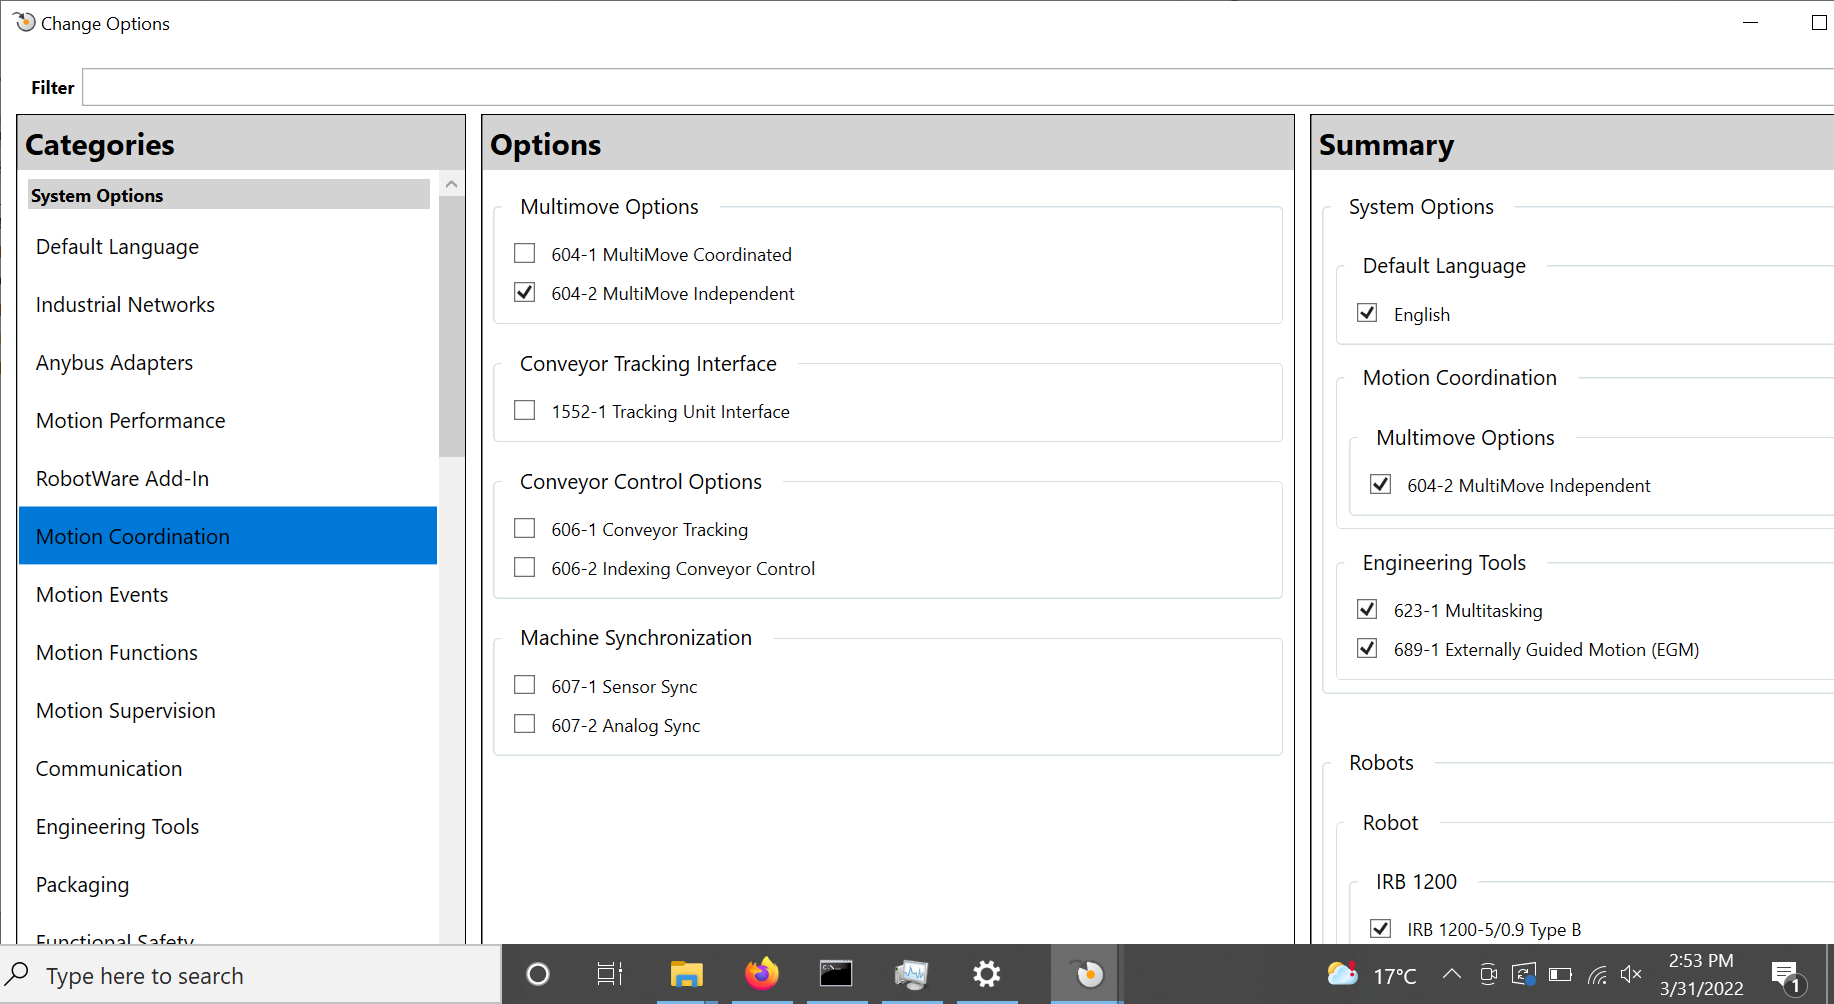
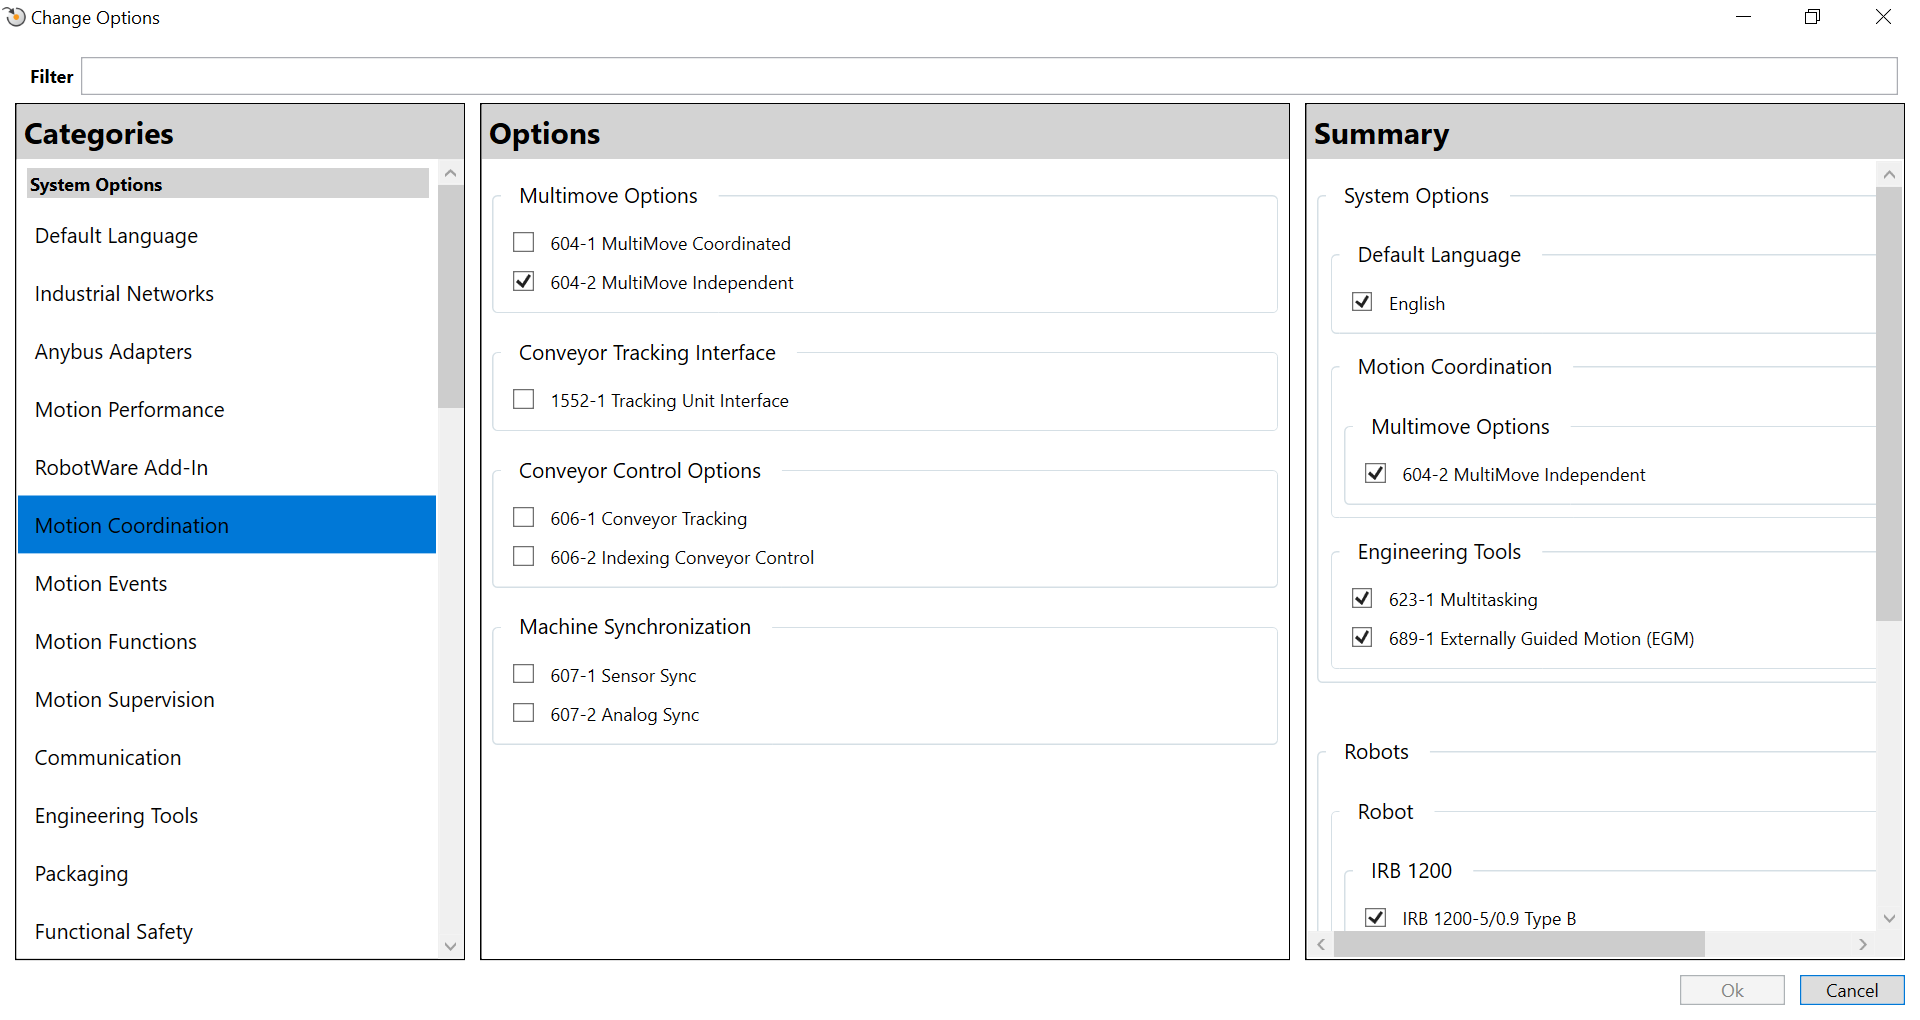
Added extra configuration information and cleanup, updated screenshots

Changed region(s): [[0.0, 0.0618, 1.0, 1.0], [0.0, 0.0, 0.0932, 0.0309], [0.9324, 0.0, 0.9945, 0.0309]]

diff --git a/docs/RobotStudioSetup.md b/docs/RobotStudioSetup.md
@@ -1,10 +1,10 @@
 # Setting Up a New Robot
 
-These steps cover how to set up a new robot in RobotStudio to work with the ABB driver. If using the Pack and Go, skip to the [controller confiugration step](#controller-configuration) for network configuration, and then to step 6 to start the controller.
+These steps cover how to set up a new robot in RobotStudio to work with the ABB driver, and reproduce the configurations in the included Pack and Go examples. If you don't want to configure your own RobotStudio simulation, you can use the Pack and Go example files as described in the [README](./README.md). As your network configuration will likely be different than that of the Pack and Go example, you will also need to follow the [controller configuration steps](#controller-configuration).
 
 ## Simulation Setup
 
-1. Open RobotStudio and create a new solution by selecting File --> New --> Solution with Station and Virtual Controller. Make sure you have `Customize options` selected.
+1. Open RobotStudio and create a new solution by selecting `File` --> `New` --> `Solution with Station and Virtual Controller`. Make sure you have `Customize options` selected.
 
 ![create solution](images/egm0.png)
 
@@ -13,42 +13,42 @@ These steps cover how to set up a new robot in RobotStudio to work with the ABB 
 
 For MultiMove support, e.g. for external axes, also select the following:
 - `623-1 Multitasking` also under `Engineering Tools`
-- `604-1 MultiMove Independent` 
+- `604-1 MultiMove Independent` under `Motion Coordination`
 
-Note that EGM Position Stream does not support MultiMove Coordinated - this means that coordinated, synchronized robot movement is not supported (i.e. for tasks that involved multiple robots that are working on the same moving work object).
+Note that EGM Position Stream does not support MultiMove Coordinated - this means that coordinated, synchronized robot movement is not supported (i.e. for tasks that involve multiple robots working on the same moving work object).
 
 ![customize](images/egm1.png)
 
+The following steps will cover how to set up the controller for EGM with a robot arm. To set up the controller configuration with a robot and external axis for MultiMove, see [Setting up a new MultiMove Robot](#setting-up-a-new-multimove-robot).
+
 ## Controller Configuration
 
-3. Configure the communication settings for the controller to connect with the ROS2 computer. Identify the IP of the ROS2 computer, and the port used for EGM communitcation. The port is set by the `robotstudio_port` hardware parameter in the robot ros2_control description file. To configure the controller, navigate to the `Controller Tab` --> `Configuration` --> `Communication`. On the right, under `Transmission Protocol` right click and `Add new`.
-
+3. Configure the communication settings for the controller to connect with the ROS2 computer. Identify the IP of the ROS2 computer, and the port used for EGM communication. The port is set by the `robotstudio_port` hardware parameter in the robot ros2_control description file. To configure the controller, navigate to the `Controller Tab` --> `Configuration` --> `Communication`. On the right, under `Transmission Protocol` right click and `Add new`.
 
 ![communication](images/egm2.png)
 
-
  - Set the name to be `ROB_1`
  - Set the type to `UDPUC`. If you don't see this option, EGM was not added to the controller.
- -  Set the Remote Address to be that of the ROS2 computer. In the Pack and Go file, this is set to `169.254.53.52`, but this will likely need to be changed.
+ - Set the Remote Address to be that of the ROS2 computer. In the Pack and Go file, this is set to `169.254.53.52`, but this will likely need to be changed.
  - Set the Remote port number to match what ROS2 control driver is expecting. In the sample solution, it is set to `6511`.
- - Leave the local port number set to `0`
+ - Leave the Local port number set to `0`
  - Press OK at the bottom of the window to confirm the changes
 
 ![add transmission porotocol](images/egm3.png)
 
 ## RAPID Configuration
 
-4. Add the code from `TRob1Main.mod` to the RAPID module. This can be done by selecting the module on the sidebar, and copy-pasting the code into the editor.
+4. Add the code from `TRob1Main.mod` to the RAPID module. This can be done by selecting the module on the sidebar, and copy-pasting the code into the editor, or by right-clicking the `T_ROB1` task, selecting `Load Module...`, and navigate to and selecting `TRob1Main.mod` in the file browser.
 
 ![add module](images/egm4.png)
 
 # Setting up a new MultiMove Robot
 
-These steps cover how to set up a new robot with an example external axis in RobotStudio to work with the ABB driver. If using the Pack and Go, skip to the [Controller Configuration step](#controller-configuration-multimove) for network configuration, and then to step 6 to start the controller.
+These steps cover how to set up a new robot with an example external axis in RobotStudio to work with the ABB driver. If using the Pack and Go, skip to steps 13 through 15 in [Controller Configuration](#controller-configuration-multimove) for network configuration.
 
 ## Simulation Setup (MultiMove)
 
-1. Create a new solution similarly to the first step in the [Setting up a new robot](#setting-up-a-new-robot), enabling `604-2 MultiMove Independent` under Motion Coordination as well. You can also add MultiMove to an existing solution under the Controller option in the Ribbon, and select `Change Options`. Note that this will require a reset and restart of the controller, which will wipe the configuration and RAPID programs.
+1. Create a new solution similarly to the first step in the [Setting up a new robot](#setting-up-a-new-robot), enabling `604-2 MultiMove Independent` under Motion Coordination as well. You can also add MultiMove to an existing solution under the Controller option in the Ribbon, and select `Change Options`. Note that this will require a reset and restart of the controller, which will wipe the existing configuration and RAPID programs.
 
 ![options](images/multimove0.PNG)
 
@@ -58,9 +58,9 @@ These steps cover how to set up a new robot with an example external axis in Rob
 
 3. Navigate to the `Home tab` in the top ribbon. Right-click the robot name in the left pane and select `Browse for Library...` A file browser should pop up.
 
-4. Navigate to and open the external axis - the external axis used in the example Pack and Go is the `MU_250__01` in the `Positioners` folder. You should see the new mechaism appear in the View window.
+4. Navigate to and open the external axis - the external axis used in the example Pack and Go is the `MU_250__01` in the `Positioners` folder. You should see the new mechanism appear in the View window.
 
-5. Adjust the position of the external axis as necessary by right-clicking the new mechanism, Position --> Set Position... For the `MU_250__01`, we apply an orientation change of 180 about X axis and -90 about Y axis to put the unit under the robot. Click Apply when finished - you should see the external axis reposition according to the values you set.
+5. Adjust the position of the external axis as necessary by right-clicking the new mechanism, `Position` --> `Set Position...` For the `MU_250__01`, we apply an orientation change of 180 about X axis and -90 about Y axis to put the unit under the robot. Click Apply when finished - you should see the external axis reposition according to the values you set.
 
 ![set position](images/multimove2.PNG)
 
@@ -78,23 +78,24 @@ These steps cover how to set up a new robot with an example external axis in Rob
 
     ![external axis wizard 3](images/multimove5.PNG)
 
-7. To attach the arm to the external axis, right click the arm name in the tree menu in the left pane, select Attach to --> MU_250__01. A pop up winodw will ask you to confirm if you want to update the position of the arm. Select Yes. A second pop up will ask if the robot should be coordinate with the track. Select Yes. A third prompt will ask you to restart the controller. Select Yes again.
+7. To attach the arm to the external axis, right click the arm name in the tree menu in the left pane, select `Attach to` --> `MU_250__01`. A pop up window will ask you to confirm if you want to update the position of the arm. Select Yes. A second pop up will ask if the robot should be coordinate with the track. Select Yes. A third prompt will ask you to restart the controller. Select Yes again.
 
 ## Controller Configuration (MultiMove)
 
-8. Now that the external axis is set up in the controller, we now need to configure additional controller parameters to be able to control it via EGM. Go to the `Controller tab` on the top ribbon. On the left tree menu, or on the top ribbon, select `Configuration`, then `Motion`.
-
+8. Now that the external axis is set up in the controller, we now need to configure additional controller parameters to be able to control it via EGM. Go to the `Controller tab` on the top ribbon. On the left tree menu (or on the top ribbon), select `Configuration`, then `Motion`.
 
 9. Click `Mechanical Unit` under the Type list. You should see two entries, one for the robot, and one for the external axis, similar to the screenshot below. Note the name of the external axis mechanical unit.
 
+Your Mechanical Unit configuration should look like the screenshot below:
+
 ![motion config](images/multimove6.PNG)
 
-10. On the left tree menu, or on the top ribbon, select Configuration, then Controller.
+10. On the left tree menu (or on the top ribbon), select Configuration, then Controller.
 
 11. Click Mechanical Unit Group under the Type list. Right-click to add a new Mechanical Unit Group. If you can't see the Mechanical Unit Group option, check if the [MultiMove option was enabled](#setting-up-a-new-multimove-robot).
     - Set the Mechanical Unit Group name. The Pack and Go example has uses the name `extax`
     - Select a unique motion planner (this cannot be the same as the motion planner for `ROB_1`). The Pack and Go example uses `motion_planner_2`
-    - Set Mechanical Unit 1 to be the name of the external axis Mechanical Unit Group from above (`MU_250__01` in the example). 
+    - Set Mechanical Unit 1 to be the name of the external axis Mechanical Unit Group from above (`MU_250__01` in the example) 
 
 ![new mug](images/multimove7.PNG)
 
@@ -115,7 +116,7 @@ Your Task configuration should look similar to the screenshot below:
 
 ![mug config](images/multimove10.PNG)
 
-13. On the left tree menu, or on the top ribbon, select `Configuration`, then `Communication`
+13. On the left tree menu (or on the top ribbon), select `Configuration`, then `Communication`
 
 14. Click Transmission Protocol under the Type list. Right-click to add new Transmission Protocol
 
@@ -143,7 +144,9 @@ Finally, we need to add a RAPID module for the new tasks we created.
     - Under `T_ROB1`, load the `TRob1Main` module similarly to [previous](#rapid-configuration)
     - Right-click the second task (`T_EXTAXIS` in the example), and select `Load Module...`
     - Navigate to and select `TExtAxis.mod`
-    - In the module, change line 70 to reflect the mechanical unit name and the tranmission protocol name if not the same as in the example.
+    - In the module, change line 70 to reflect the Mechanical Unit name and the transmission protocol name if not using the same names as used in the example.
 
     ```EGMSetupUC <MECH UNIT NAME>, egm_id, "default", "<TRANSMISSION PROTOCOL NAME>", \Joint;```
+    
+    - Substitute `<MECH UNIT NAME>` with the Mechanical Unit name (`MU_250__1` in the example) and `<TRANSMISSION PROTOCOL NAME>` (keep the quotes around it) to the transmission protocol name (`EXTAX` in the example).
 

diff --git a/docs/README.md b/docs/README.md
@@ -40,7 +40,9 @@ The `robot_studio_resources` directory contains a Pack and Go file for RobotStud
 3. Under File, select Open
 4. Navigate to the folder with the downloaded Pack and Go file and select it
 
-This should open the station with most of the required parameters set up. However, note that network parameters for connecting between the robot and the control computer will likely be different, and will need to be reconfigured. See Step 3 in [Setting Up a New Robot](./RobotStudioSetup.md) to do this.
+This should open the station with most of the required parameters set up. However, note that network parameters for connecting between the robot and the control computer will likely be different, and will need to be reconfigured. See the [controller configuration step](./RobotStudioSetup.md#controller-configuration) in Setting Up a New Robot to do this.
+
+If you would like to set up your own simulation from scratch, see [Setting Up a New Robot](./RobotStudioSetup.md#setting-up-a-new-robot). For MultiMove, see [Setting Up a New Robot with MultiMove](./RobotStudioSetup.md#setting-up-a-new-multimove-robot)
 
 ## Running the Simulation
 
@@ -67,6 +69,7 @@ The driver reqiures some network information to connect to EGM and RWS. This inf
 - `rws_ip` is passed in as a launch argument
 - `<MECHANICAL_UNIT_GROUP_NAME>egm_port` should match the `Remote port` setting from the RobotStudio controller configuration
      - Change `<MECHANICAL_UNIT_GROUP_NAME>` to match the mechanical unit group name - in the sample Pack and Go file, this is `rob1`
+     - If using the MultiMove example, add a line for the `extax` mechanical unit group and port 6512
      - If not using MultiMove, change the parameter name to `egm_port`
 
 To launch with RobotStudio, set `use_fake_hardware:=false` and `robotstudio_ip:=<ROBOTSTUDIO_IP>`, substituting `<ROBOTSTUDIO_IP>` with the IP of the RobotStudio computer. As far as ROS is aware, RobotStudio is a real robot:
@@ -82,7 +85,11 @@ After launching the controllers, launch MoveIt:
 RWS is a platform that allows interaction with the robot controller over HTTP, which is used by the driver to get information about the robot. Note that only RWS 1.0 is supported - RobotWare 7.0 and higher use RWS 2.0 and are not currently supported.
 
 ## Connecting with ROS2
-- Need external axis in URDF - is this useful to provide?
-- Add the external axis port number to the [robot description file](../robot_specific_config/abb_irb1200_support/urdf/irb1200.ros2_control.xacro). For the example Pack and Go, this parameter name should be `extaxegm_port` and value should be `6512`:
+Add the external axis port number to the [robot description file](../robot_specific_config/abb_irb1200_support/urdf/irb1200.ros2_control.xacro). For the example Pack and Go, this parameter name should be `extaxegm_port` and value should be `6512`:
 
 ```<param name="extaxegm_port">6512</param>```
+
+# More Info
+- [Robot Studio Setup Guide](./RobotStudioSetup.md)
+- [Network Configuration](./NetworkingConfiguration.md)
+- [Troubleshooting](./Troubleshooting.md)

diff --git a/docs/NetworkingConfiguration.md b/docs/NetworkingConfiguration.md
@@ -1,4 +1,7 @@
-# RWS Configuration Changes
+# Networking Configuration
+
+This document covers various options to configure the network connection between the ROS2 computer and the RWS server. For general driver setup instructions, see [the README](./README.md).
+
 ## Changing the RWS port
 
 RWS by default runs on port 80 of the RobotStudio computer. If you want to change this, (ex. if port 80 is taken by another application), you can do this by navigating to and opening this file:
@@ -45,16 +48,15 @@ Paste the following into`vcconf.xml`:
 </VCConfiguration>
 ```
 
-Change ROS2_COMPUTER_IP to the IP of the ROS2 computer. Up to 10 IP addresses can be whitelisted by adding additional `<host ip="..."/>` lines.
+Change ROS2_COMPUTER_IP to the IP of the ROS2 computer. Up to 10 IP addresses can be whitelisted by adding additional `<host ip="..."/>` lines. Restart RobotStudio after the update.
 
 See [this forum post](https://forums.robotstudio.com/discussion/12082/using-robotwebservices-to-access-a-remote-virtual-controller) for more details.
 
-# Networking Configuration
 ## Configuring SSH port forwarding
 
 If you'd prefer to avoid the [whitelisting solution](#adding-the-local-computer-to-the-virtual-controller-whitelist), you can also use ssh port forwarding.
 
-[Install OpenSSH](https://docs.microsoft.com/en-us/windows-server/administration/openssh/openssh_install_firstuse#install-openssh-using-windows-settings) on the RobotStudio computer.
+[Install "OpenSSH Server"](https://docs.microsoft.com/en-us/windows-server/administration/openssh/openssh_install_firstuse#install-openssh-using-windows-settings) on the RobotStudio computer.
 
 Start the SSH server by running the following command in PowerShell as an administrator:
 
@@ -71,7 +73,7 @@ On the ROS2 computer, set up the SSH port forward by typing the following comman
 
 Enter the Windows login password for the `<ROBOTSTUDIO_USER>` account when prompted.
 
-This will allow you to access RWS on the ROS2 computer on `127.0.0.1:<DESTINATION_PORT>`. This means, When lauching, you will need to set `robotstudio_ip:=127.0.0.1`. The full launch command would be:
+This will allow you to access RWS on the ROS2 computer on `127.0.0.1:<DESTINATION_PORT>`. When launching ROS, use this value for robotstudio_ip: `127.0.0.1`. The full launch command would be:
 
     ros2 launch abb_bringup abb_control.launch.py description_package:=abb_irb1200_support description_file:=irb1200_5_90.xacro launch_rviz:=false moveit_config_package:=abb_irb1200_5_90_moveit_config use_fake_hardware:=false robotstudio_ip:=127.0.0.1
 

diff --git a/docs/Troubleshooting.md b/docs/Troubleshooting.md
@@ -5,12 +5,13 @@
  - The warning message `41822 No data from the UdpUc device[*]` indicates a connection issue between the RobotStudio and the ROS2 computer
     - Check that the communication settings are correct
     - Test the connection between the computers by pinging the ROS2 computer from the RobotStudio computer and vice-versa
-    - Check that the firewall settings on the RobotStudio computer allow communcation over UDP on the correct port
+    - Check that the firewall settings on the RobotStudio computer allow communication over UDP on the correct port
     - Verify that the ros2_control_node is listening on the correct UDP socket on the ROS2 computer
     - If using a container, verify that the required port is forwarded correctly
     - It may help switch the port by changing both the `robotstudio_port` hardware parameter on the ROS2 control side, and the port number under the `ROB_1` configuration on the RobotStudio side
 
 ## RWS Connection Issues
  - Try navigating to `<ROBOTSTUDIO_IP>:80?debug=true` in the browser and logging in with the default credentials (Default User, robotics)
- - If you see `RAPI Unidentified Error`, try [whitelisting the ROS computer's IP](./NetworkingConfiguration.md#adding-the-local-computer-to-the-virtual-controller-whitelist)
+ - If you don't see a login prompt, the ROS2 computer is not communicating with the RWS server.
+ - After logging in, if you see `RAPI Unidentified Error`, try [whitelisting the ROS computer's IP](./NetworkingConfiguration.md#adding-the-local-computer-to-the-virtual-controller-whitelist)
  - A workaround to the whitelisting solution is to [use SSH port forwarding](./NetworkingConfiguration.md#configuring-ssh-port-forwarding)
